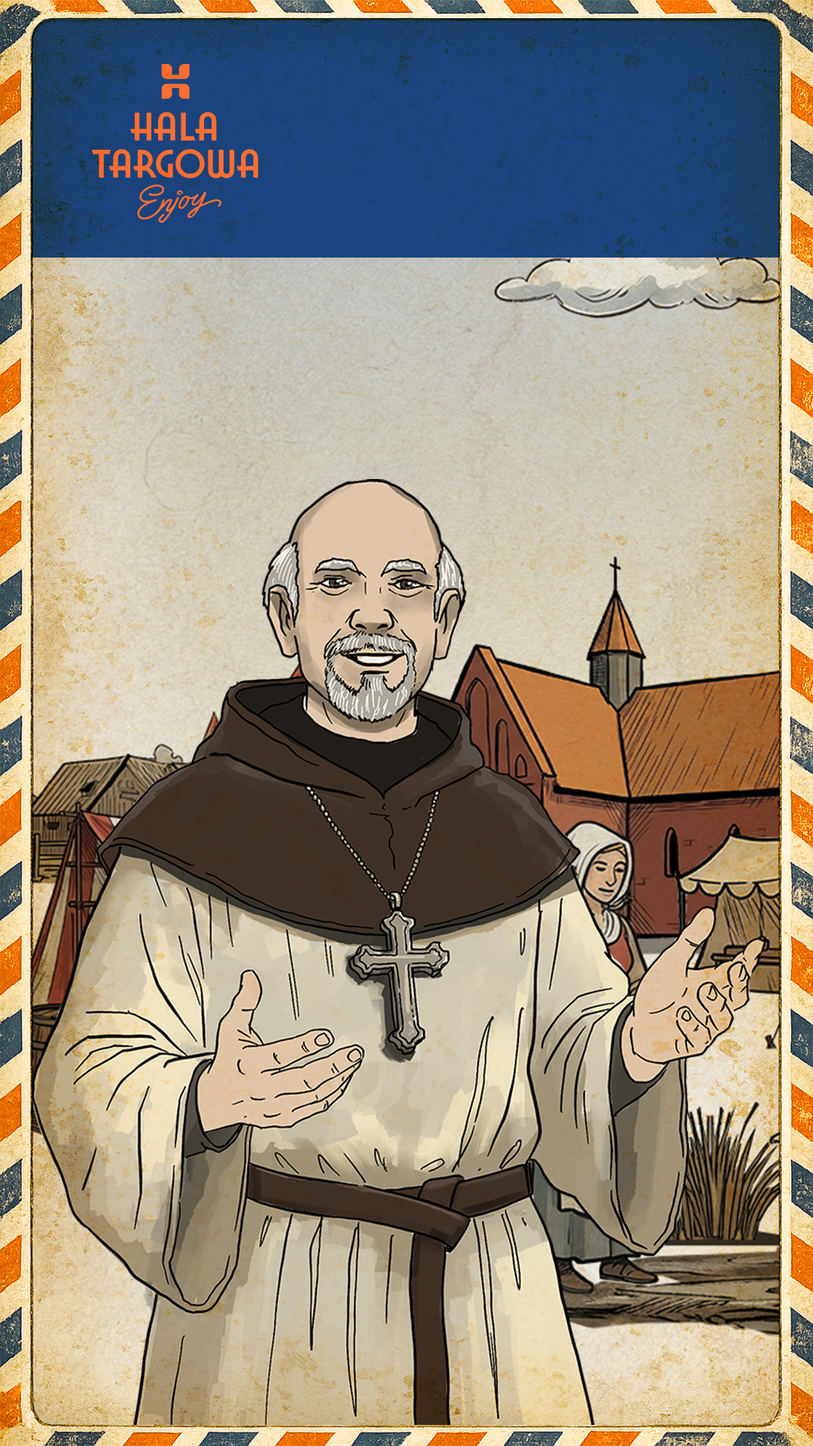
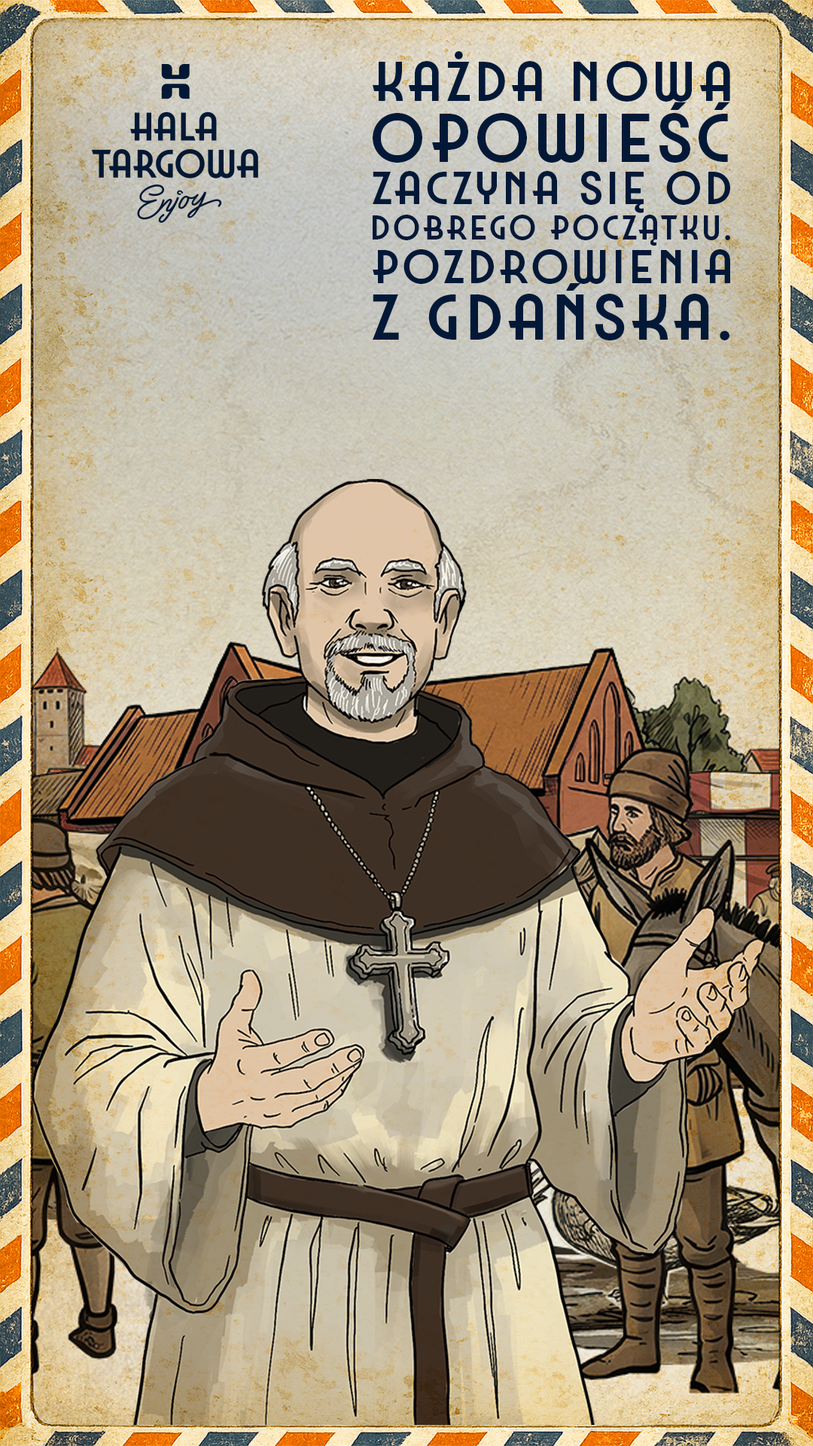
Use localized postcard images

diff --git a/postcard.html b/postcard.html
@@ -7,156 +7,115 @@
   <title>HTG Widokówka</title>
   <meta name="description" content="Pamiątkowa widokówka z misji HTG" />
 
-  <link rel="stylesheet" href="./assets/postcard.css?v=20260724-2" />
+  <link rel="stylesheet" href="./assets/postcard.css?v=20260730-1" />
 </head>
 
 <body>
   <main class="page">
     <article class="postcard" id="postcard" hidden>
       <img class="postcard__image" id="postcardImage" src="" alt="" />
-
-      <section class="message" id="messageBox" aria-label="Wynik misji">
-        <p class="message__eyebrow" id="messageEyebrow"></p>
-        <p class="message__text" id="messageText"></p>
-      </section>
     </article>
 
     <section class="fallback" id="fallback" hidden>
       <h1 id="fallbackTitle">Nie znaleziono widokówki</h1>
       <p id="fallbackText1">Link jest niepełny albo zawiera nieprawidłowe dane.</p>
       <p id="fallbackText2">Poprawny format adresu:</p>
-      <code>postcard.html?year=1260&amp;score=5&amp;lang=pl</code>
+      <code>postcard.html?year=1260&amp;lang=pl</code>
     </section>
   </main>
 
   <script>
-    const CACHE_VERSION = "20260724-2";
+    const CACHE_VERSION = "20260730-1";
 
     const POSTCARDS = {
       "1260": {
-        title: "Początek na Kępie",
-        image: `./images/1260.png?v=${CACHE_VERSION}`,
-        alt: "Widokówka z epoki 1260, Początek na Kępie"
+        title: { pl: "Początek na Kępie", en: "The beginning on Kępa" },
+        alt: {
+          pl: "Widokówka z epoki 1260, Początek na Kępie",
+          en: "Postcard from 1260, The beginning on Kępa"
+        }
       },
       "1750": {
-        title: "Zakupy z całego świata",
-        image: `./images/1750.png?v=${CACHE_VERSION}`,
-        alt: "Widokówka z epoki 1750, Zakupy z całego świata"
+        title: { pl: "Zakupy z całego świata", en: "Shopping from around the world" },
+        alt: {
+          pl: "Widokówka z epoki 1750, Zakupy z całego świata",
+          en: "Postcard from 1750, Shopping from around the world"
+        }
       },
       "1894": {
-        title: "Architekt nowoczesnej Hali",
-        image: `./images/1894.png?v=${CACHE_VERSION}`,
-        alt: "Widokówka z epoki 1894, Architekt nowoczesnej Hali"
+        title: { pl: "Architekt nowoczesnej Hali", en: "Architect of the modern market hall" },
+        alt: {
+          pl: "Widokówka z epoki 1894, Architekt nowoczesnej Hali",
+          en: "Postcard from 1894, Architect of the modern market hall"
+        }
       },
       "1896": {
-        title: "Pierwszy dzień pod dachem",
-        image: `./images/1896.png?v=${CACHE_VERSION}`,
-        alt: "Widokówka z epoki 1896, Pierwszy dzień pod dachem"
+        title: { pl: "Pierwszy dzień pod dachem", en: "The first day under the roof" },
+        alt: {
+          pl: "Widokówka z epoki 1896, Pierwszy dzień pod dachem",
+          en: "Postcard from 1896, The first day under the roof"
+        }
       },
       "1931": {
-        title: "Restaurator z Hali",
-        image: `./images/1931.png?v=${CACHE_VERSION}`,
-        alt: "Widokówka z epoki 1931, Restaurator z Hali"
+        title: { pl: "Restaurator z Hali", en: "The restaurateur from the market hall" },
+        alt: {
+          pl: "Widokówka z epoki 1931, Restaurator z Hali",
+          en: "Postcard from 1931, The restaurateur from the market hall"
+        }
       },
       "1975": {
-        title: "Zapach mandarynek",
-        image: `./images/1975.png?v=${CACHE_VERSION}`,
-        alt: "Widokówka z epoki 1975, Zapach mandarynek"
+        title: { pl: "Zapach mandarynek", en: "The scent of mandarins" },
+        alt: {
+          pl: "Widokówka z epoki 1975, Zapach mandarynek",
+          en: "Postcard from 1975, The scent of mandarins"
+        }
       }
     };
 
-    function formatPolishPoints(score) {
-      if (score === 1) return "1 punkt";
-
-      const mod10 = score % 10;
-      const mod100 = score % 100;
-
-      if (mod10 >= 2 && mod10 <= 4 && !(mod100 >= 12 && mod100 <= 14)) {
-        return `${score} punkty`;
-      }
-
-      return `${score} punktów`;
-    }
-
     const COPY = {
       pl: {
-        congratulations: "Gratulacje!",
         invalidTitle: "Nie znaleziono widokówki | HTG",
         fallbackTitle: "Nie znaleziono widokówki",
         fallbackText1: "Link jest niepełny albo zawiera nieprawidłowe dane.",
-        fallbackText2: "Poprawny format adresu:",
-        ariaLabel: "Wynik misji",
-        titleSuffix: "pkt",
-        scoreText: (score) => `Zdobyłeś ${formatPolishPoints(score)}`
+        fallbackText2: "Poprawny format adresu:"
       },
       en: {
-        congratulations: "Congratulations!",
         invalidTitle: "Postcard not found | HTG",
         fallbackTitle: "Postcard not found",
         fallbackText1: "The link is incomplete or contains invalid data.",
-        fallbackText2: "Correct URL format:",
-        ariaLabel: "Mission result",
-        titleSuffix: "pts",
-        scoreText: (score) =>
-          `You scored ${score} ${score === 1 ? "point" : "points"}`
+        fallbackText2: "Correct URL format:"
       }
     };
 
     const params = new URLSearchParams(window.location.search);
-
     const requestedYear = params.get("year");
-    const requestedScore = Number(params.get("score"));
-    const requestedLangRaw = (params.get("lang") || "pl").toLowerCase();
-    const requestedLang = COPY[requestedLangRaw] ? requestedLangRaw : "pl";
+    const requestedLang = (params.get("lang") || "pl").toLowerCase() === "en"
+      ? "en"
+      : "pl";
     const copy = COPY[requestedLang];
 
     document.documentElement.lang = requestedLang;
 
-    const hasValidYear = POSTCARDS[requestedYear] !== undefined;
-    const hasValidScore =
-      Number.isInteger(requestedScore) &&
-      requestedScore >= 1 &&
-      requestedScore <= 5;
-
+    const postcard = POSTCARDS[requestedYear];
     const postcardElement = document.getElementById("postcard");
     const fallbackElement = document.getElementById("fallback");
 
-    const fallbackTitle = document.getElementById("fallbackTitle");
-    const fallbackText1 = document.getElementById("fallbackText1");
-    const fallbackText2 = document.getElementById("fallbackText2");
-
-    function showFallback() {
+    if (!postcard) {
       document.title = copy.invalidTitle;
-      fallbackTitle.textContent = copy.fallbackTitle;
-      fallbackText1.textContent = copy.fallbackText1;
-      fallbackText2.textContent = copy.fallbackText2;
+      document.getElementById("fallbackTitle").textContent = copy.fallbackTitle;
+      document.getElementById("fallbackText1").textContent = copy.fallbackText1;
+      document.getElementById("fallbackText2").textContent = copy.fallbackText2;
       fallbackElement.hidden = false;
-    }
-
-    if (!hasValidYear || !hasValidScore) {
-      showFallback();
     } else {
-      const postcard = POSTCARDS[requestedYear];
-
-      document.title =
-        `${postcard.title} | ${requestedScore}/5 ${copy.titleSuffix}`;
-
+      const imageSuffix = requestedLang === "en" ? "en" : "";
       const image = document.getElementById("postcardImage");
-      image.src = postcard.image;
-      image.alt = postcard.alt;
 
-      const messageBox = document.getElementById("messageBox");
-      messageBox.setAttribute("aria-label", copy.ariaLabel);
-
-      document.getElementById("messageEyebrow").textContent =
-        copy.congratulations;
-
-      document.getElementById("messageText").textContent =
-        copy.scoreText(requestedScore);
+      document.title = `${postcard.title[requestedLang]} | HTG`;
+      image.src = `./images/${requestedYear}${imageSuffix}.png?v=${CACHE_VERSION}`;
+      image.alt = postcard.alt[requestedLang];
 
       postcardElement.hidden = false;
     }
   </script>
 </body>
 </html>
-

diff --git a/assets/postcard.css b/assets/postcard.css
@@ -3,30 +3,7 @@
   --card-bg: #fff8ed;
   --text: #2a2017;
   --muted: #735f48;
-  --brand-orange: #fe6e32;
-  --score-color: #ffffff;
   --shadow: 0 24px 70px rgba(55, 38, 18, 0.28);
-
-  --message-left: 45%;
-  --message-top: 3.5%;
-  --message-width: 50%;
-  --message-height: 11.5%;
-}
-
-@font-face {
-  font-family: "Hala Targowa Sans";
-  src: url("./fonts/HalaTargowaSans-Regular.otf") format("opentype");
-  font-style: normal;
-  font-weight: 400;
-  font-display: swap;
-}
-
-@font-face {
-  font-family: "Poppins";
-  src: url("./fonts/Poppins-Medium.ttf") format("truetype");
-  font-style: normal;
-  font-weight: 500;
-  font-display: swap;
 }
 
 * {
@@ -76,7 +53,6 @@ body {
   border-radius: 22px;
   background: var(--card-bg);
   box-shadow: var(--shadow);
-  container-type: inline-size;
 }
 
 .postcard__image {
@@ -84,44 +60,6 @@ body {
   width: 100%;
   height: 100%;
   object-fit: contain;
-}
-
-.message {
-  position: absolute;
-  z-index: 2;
-  left: var(--message-left);
-  top: var(--message-top);
-  width: var(--message-width);
-  height: var(--message-height);
-  display: flex;
-  flex-direction: column;
-  align-items: flex-start;
-  justify-content: center;
-  text-align: left;
-  pointer-events: none;
-}
-
-.message__eyebrow {
-  margin: 0 0 0.22em;
-  font-family: "Hala Targowa Sans", Arial, sans-serif;
-  font-size: 6cqw;
-  line-height: 1;
-  font-weight: 400;
-  color: var(--brand-orange);
-  letter-spacing: 0.01em;
-  white-space: nowrap;
-  text-shadow: 0 1px 1px rgba(0, 0, 0, 0.18);
-}
-
-.message__text {
-  margin: 0;
-  font-family: "Poppins", Arial, sans-serif;
-  font-size: 2.6cqw;
-  line-height: 1.15;
-  font-weight: 500;
-  color: var(--score-color);
-  white-space: nowrap;
-  text-shadow: 0 1px 2px rgba(0, 0, 0, 0.28);
 }
 
 .fallback {
